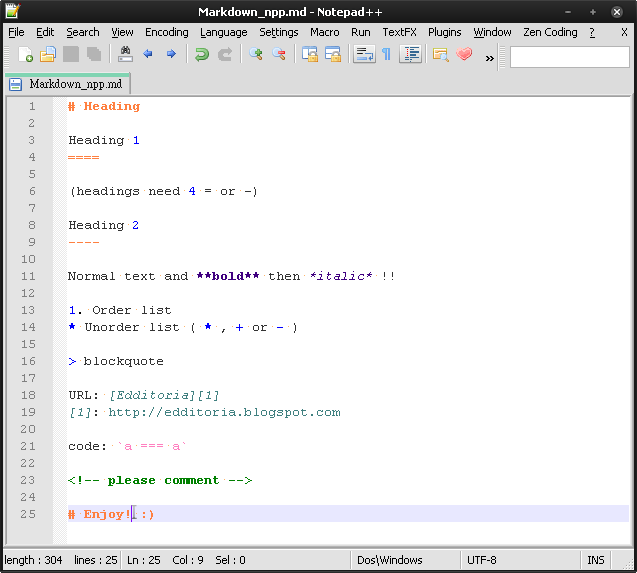
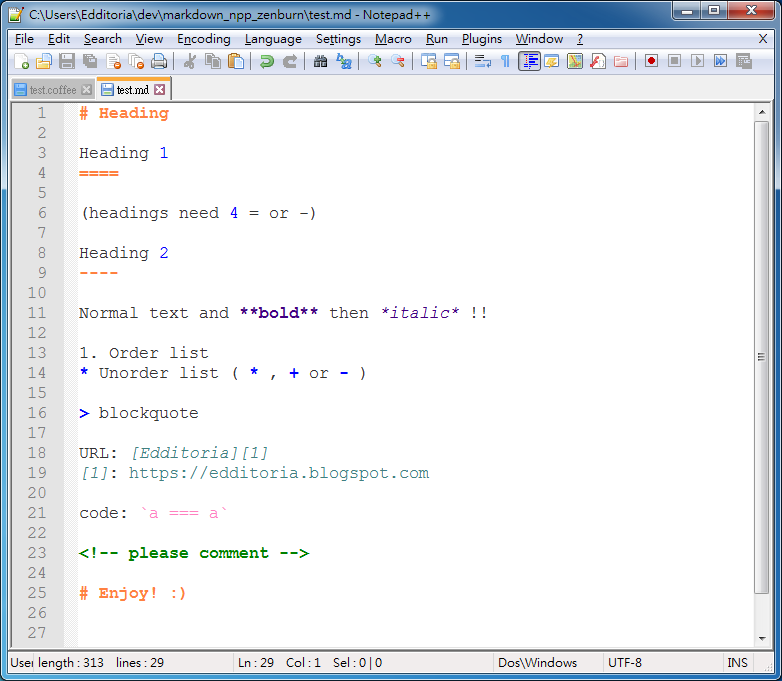
change xml filename, update instruction and screenshots

diff --git a/README.md b/README.md
@@ -16,29 +16,18 @@ If you are a Notepad++ and Markdown user, you may like it!
 Supports file extensions: `.markdown` and `.md`  
 Tested: Notepad++ v6.8.8 (Windows 7)
 
-I also created *Coffeescript syntax highlighting*:  
-[link][coffeescript] (only Zenburn)
+p\.s\. I also created *Coffeescript syntax highlighting*:  
+[link][coffeescript] (for Zenburn theme only)
 
 ## How to Use?
 
-You need to modify a file `userDefineLang.xml` in your Notepad++ program folder.  
-
 1. Download the Markdown language definition file
-     - **Zenburn Theme** : [userDefineLang.xml][zenburn_xml]
-     - **Default Theme** : [userDefineLang.xml][default_xml]
-2. Find out your Notepad++ app data directory. You can open it by
-  ```
-  cd %APPDATA%\Notepad++
-
-  explorer .
-  ```
-3. There may be a file called `userDefineLang.xml`
-     - If it does _not_ already exist, copy the XML file to the folder.
-     - If it _does_ exist, you need to edit your xml file manually:
-       - open the active `userDefineLang.xml` with a text editor.
-       - Copy the contents of the Markdown definition file between the `<UserLang...></UserLang>` tags into the active `userDefineLang.xml`, at the end right before `</NotepadPlus>`.
-       - Save `userDefineLang.xml`.
+     - **Zenburn Theme** : [userDefineLang_markdown_zenburn.xml][zenburn_xml]
+     - **Default Theme** : [userDefineLang_markdown.xml][default_xml]
+2. In Notepad++ menu, click `Language` and select `Define your language...` .
+3. In User Defined Language windows, click `Import` then open the xml file.
 4. Restart Notepad++.
+5. Open and test with a CoffeeScript file e.g. [test.md][test_file]
 
 **Enjoy!!**
 
@@ -83,8 +72,9 @@ THE SOFTWARE.
 [tomes]: https://github.com/thomsmits/markdown_npp
 [screen_zenburn]: /zenburn_theme/markdown_npp_zenburn_screenshot.png "Markdown in Zenburn Theme of Notepad++"
 [screen_default]: /default_theme/markdown_npp_default_theme_screenshot.png "Markdown in Default Theme of Notepad++"
-[zenburn_xml]: https://raw.githubusercontent.com/Edditoria/markdown_npp_zenburn/master/zenburn_theme/userDefineLang.xml
+[zenburn_xml]: https://raw.githubusercontent.com/Edditoria/markdown_npp_zenburn/master/zenburn_theme/userDefineLang_markdown_zenburn.xml
 [default_xml]: https://raw.githubusercontent.com/Edditoria/markdown_npp_zenburn/master/default_theme/userDefineLang.xml
+[test_file]: https://raw.githubusercontent.com/Edditoria/markdown_npp_zenburn/master/test.md
 [twitter]: http://twitter.com/Edditoria
 [fb]: http://www.facebook.com/Edditoria
 [gplus]: https://plus.google.com/109579889772726782010/about

diff --git a/test.md b/test.md
@@ -1,0 +1,25 @@
+# Heading
+
+Heading 1
+====
+
+(headings need 4 = or -)
+
+Heading 2
+----
+
+Normal text and **bold** then *italic* !!
+
+1. Order list
+* Unorder list ( * , + or - )
+
+> blockquote
+
+URL: [Edditoria][1]
+[1]: https://edditoria.blogspot.com
+
+code: `a === a`
+
+<!-- please comment -->
+
+# Enjoy! :)
